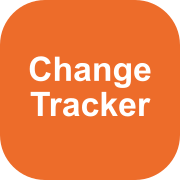
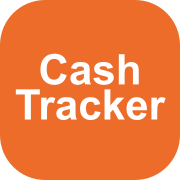
sync bugs fixes

Changed region(s): [[0.0833, 0.2778, 0.9167, 0.6667]]

diff --git a/vite.config.ts b/vite.config.ts
@@ -23,9 +23,9 @@ export default defineConfig({
       registerType: 'autoUpdate',
       includeAssets: ['icon.svg'],
       manifest: {
-        name: 'Change Tracker',
-        short_name: 'Change Tracker',
-        description: 'Track cash change for delivery drivers',
+        name: 'Cash Tracker',
+        short_name: 'Cash',
+        description: 'Track cash for delivery drivers',
         theme_color: '#1A1B1E',
         background_color: '#1A1B1E',
         display: 'standalone',

diff --git a/src/pages/Home.tsx b/src/pages/Home.tsx
@@ -26,7 +26,7 @@ const Home = () => {
           <Stack gap="xl">
             <Stack gap="xs" align="center">
               <Title order={2} ta="center" style={{ color: '#FFB800' }}>Namaste Narimasu</Title>
-              <Title order={1} ta="center" c="blue.4">Change Tracker</Title>
+              <Title order={1} ta="center" c="blue.4">Cash Tracker</Title>
               <Text size="lg" c="gray.4" ta="center">{currentDate}</Text>
             </Stack>
             

diff --git a/index.html b/index.html
@@ -8,8 +8,8 @@
       content="width=device-width, initial-scale=1.0, maximum-scale=1.0, user-scalable=no"
     />
     <meta name="theme-color" content="#1A1B1E" />
-    <meta name="description" content="Track cash change for delivery drivers" />
-    <title>Change Tracker</title>
+    <meta name="description" content="Track cash for delivery drivers" />
+    <title>Cash Tracker</title>
   </head>
   <body>
     <div id="root"></div>

diff --git a/README.md b/README.md
@@ -1,13 +1,13 @@
-# Change Tracker
+# Cash Tracker
 
-A modern, mobile-first web application designed to help delivery drivers manage cash transactions and calculate change efficiently.
+A modern, mobile-first web application designed to help delivery drivers manage cash transactions efficiently.
 
 ![App Icon](public/icon.svg)
 
 ## Features
 
 - **Driver Selection**: Quick access for up to 6 drivers
-- **Real-time Change Calculation**: Instantly calculate change amounts
+- **Real-time Cash Calculation**: Instantly calculate cash amounts
 - **Bilingual Support**: Interface in English and Nepali
 - **Transaction History**: View and filter past transactions
 - **Offline Support**: Works without internet connection
@@ -33,7 +33,7 @@ A modern, mobile-first web application designed to help delivery drivers manage 
 
 ```bash
 git clone [repository-url]
-cd change-tracker
+cd cash-tracker
 ```
 
 2. Install dependencies
@@ -67,8 +67,8 @@ npm run build
 ### Calculator Page
 
 - Input fields for Order Total and Amount Received
-- Real-time change calculation
-- Color-coded display for positive/negative change amounts
+- Real-time cash calculation
+- Color-coded display for positive/negative amounts
 - Bilingual labels (English/Nepali)
 
 ### History Page
